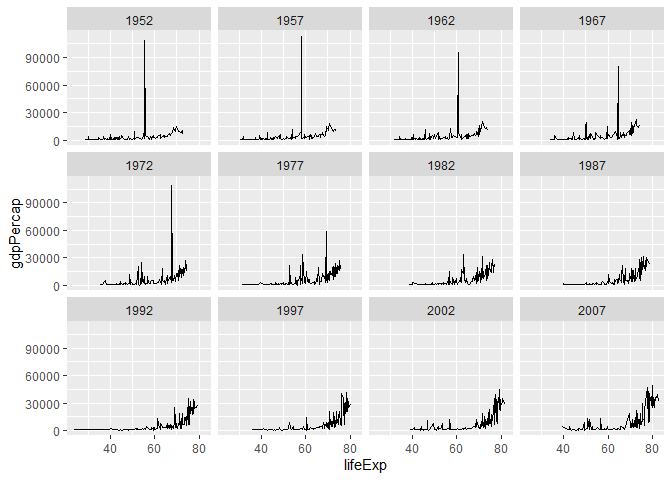
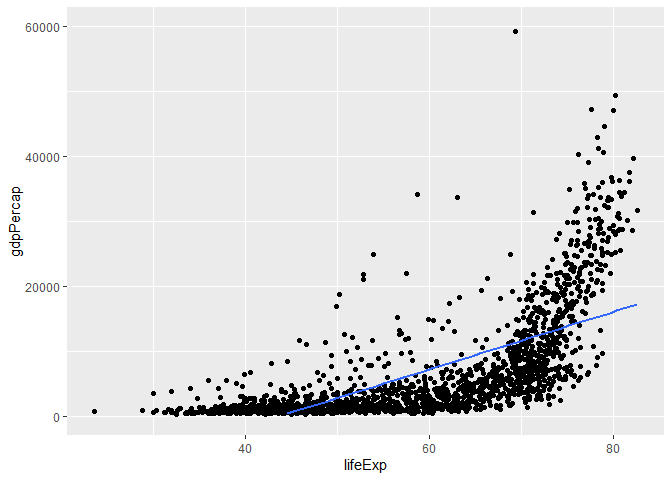
update

diff --git a/lab11/lab11_hw.html b/lab11/lab11_hw.html
@@ -9,7 +9,7 @@
 <meta http-equiv="X-UA-Compatible" content="IE=EDGE" />
 
 
-<meta name="author" content="Please Add Your Name Here" />
+<meta name="author" content="Sudev Namboodiri" />
 
 <meta name="date" content="2021-02-15" />
 
@@ -398,7 +398,7 @@ summary {
 
 
 <h1 class="title toc-ignore">Lab 11 Homework</h1>
-<h4 class="author">Please Add Your Name Here</h4>
+<h4 class="author">Sudev Namboodiri</h4>
 <h4 class="date">2021-02-15</h4>
 
 </div>
@@ -479,8 +479,13 @@ gapminder &lt;- gapminder</code></pre>
[1 lines of base64/hex data omitted]
 <p><strong>6. We are interested in the relationship between per capita GDP and life expectancy; i.e. does having more money help you live longer?</strong></p>
 <pre class="r"><code>gapminder %&gt;%
-  ggplot(aes(x = lifeExp, y = gdpPercap)) + geom_line() + facet_wrap(~year)</code></pre>
[1 lines of base64/hex data omitted]
+  ggplot(aes(x = lifeExp, y = gdpPercap)) + geom_point() + ylim(0,60000) + 
+  geom_smooth(method = lm, se = FALSE)</code></pre>
+<pre><code>## `geom_smooth()` using formula &#39;y ~ x&#39;</code></pre>
+<pre><code>## Warning: Removed 5 rows containing non-finite values (stat_smooth).</code></pre>
+<pre><code>## Warning: Removed 5 rows containing missing values (geom_point).</code></pre>
+<pre><code>## Warning: Removed 28 rows containing missing values (geom_smooth).</code></pre>
[1 lines of base64/hex data omitted]
 <p><strong>7. Which countries have had the largest population growth since 1952?</strong></p>
 <pre class="r"><code>gapminder %&gt;%
   filter(year == 1952 | year == 2007) %&gt;%

diff --git a/lab11/lab11_hw.md b/lab11/lab11_hw.md
@@ -1,6 +1,6 @@
 ---
 title: "Lab 11 Homework"
-author: "Please Add Your Name Here"
+author: "Sudev Namboodiri"
 date: "2021-02-15"
 output:
   html_document: 
@@ -141,7 +141,24 @@ gapminder %>%
 
 ```r
 gapminder %>%
-  ggplot(aes(x = lifeExp, y = gdpPercap)) + geom_line() + facet_wrap(~year)
+  ggplot(aes(x = lifeExp, y = gdpPercap)) + geom_point() + ylim(0,60000) + 
+  geom_smooth(method = lm, se = FALSE)
+```
+
+```
+## `geom_smooth()` using formula 'y ~ x'
+```
+
+```
+## Warning: Removed 5 rows containing non-finite values (stat_smooth).
+```
+
+```
+## Warning: Removed 5 rows containing missing values (geom_point).
+```
+
+```
+## Warning: Removed 28 rows containing missing values (geom_smooth).
 ```
 
 ![](lab11_hw_files/figure-html/unnamed-chunk-8-1.png)<!-- -->
